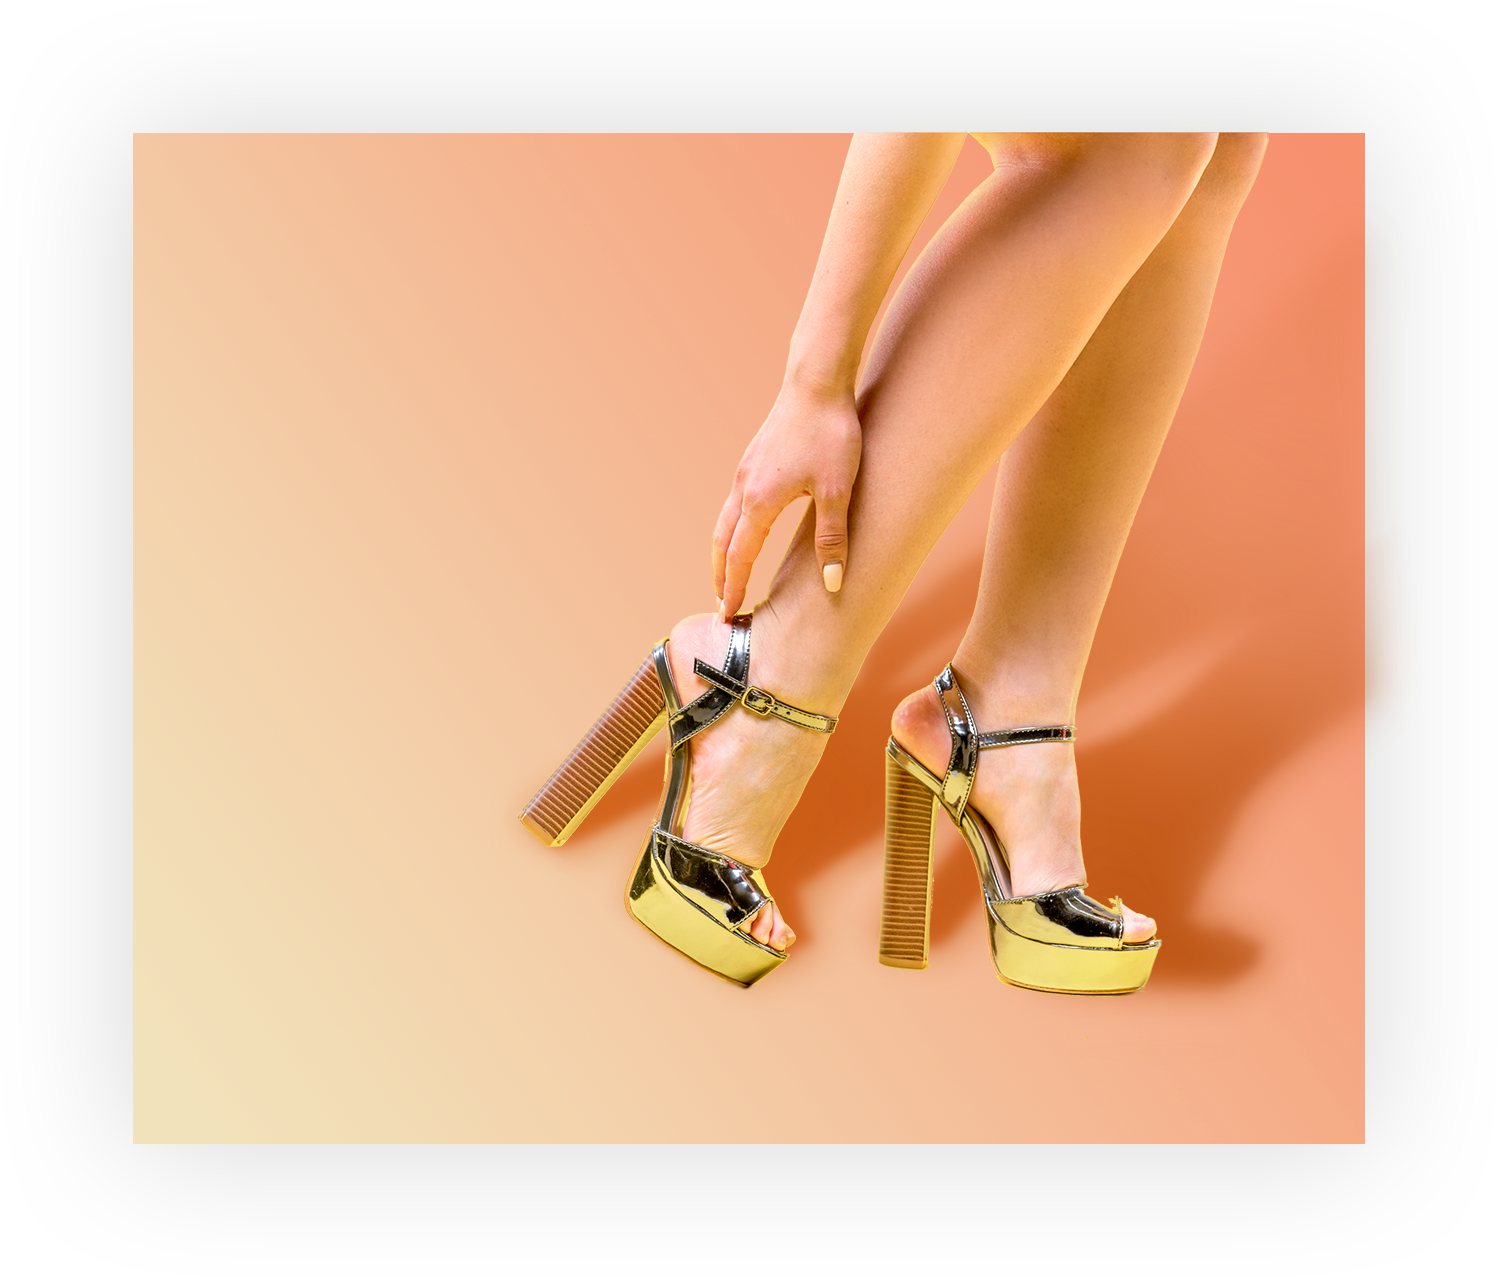
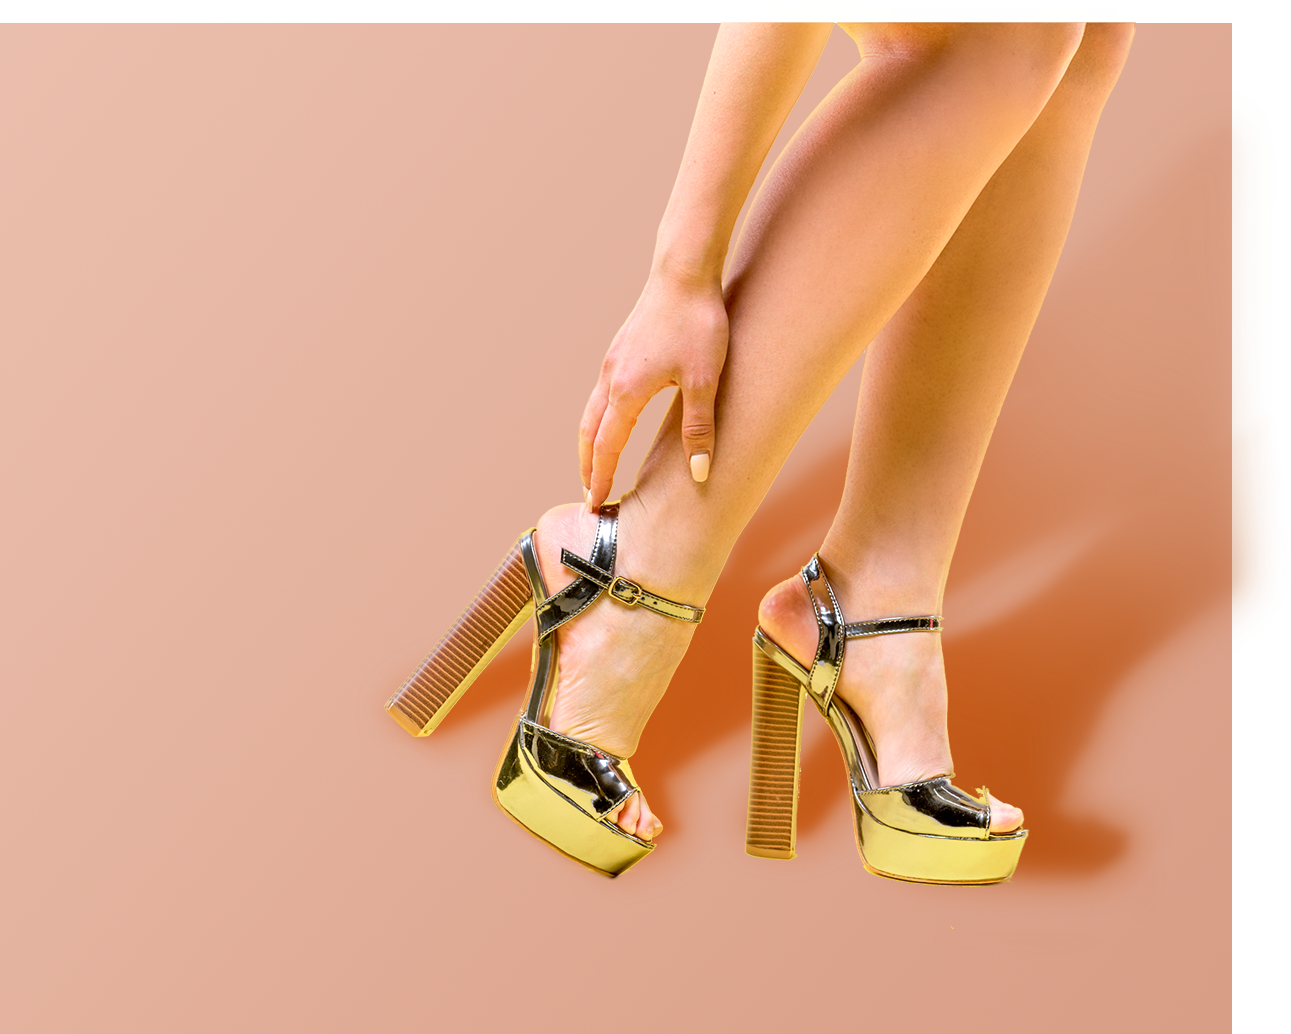
nav mega menu

diff --git a/assets/css/style.css b/assets/css/style.css
@@ -339,9 +339,9 @@ nav a:hover{
 .legs{
   position: absolute;
   /* right: 0; */
-  top: -6.5vw;
-  width: 72.7014vw;
-  left: -6.5vw;
+  top: -1.2vw;
+  width: 62.7014vw;
+  left: 0vw;
 }
 
 .leftTextBox{
@@ -400,7 +400,7 @@ nav a:hover{
   background-color: #552a0e;
   font-size: 1.513vw;
   position: absolute;
-  bottom: 5.55vw;
+  bottom: 3.55vw;
   left: 3.3vw;
   font-weight: 900;
   letter-spacing: 0.1vw;
